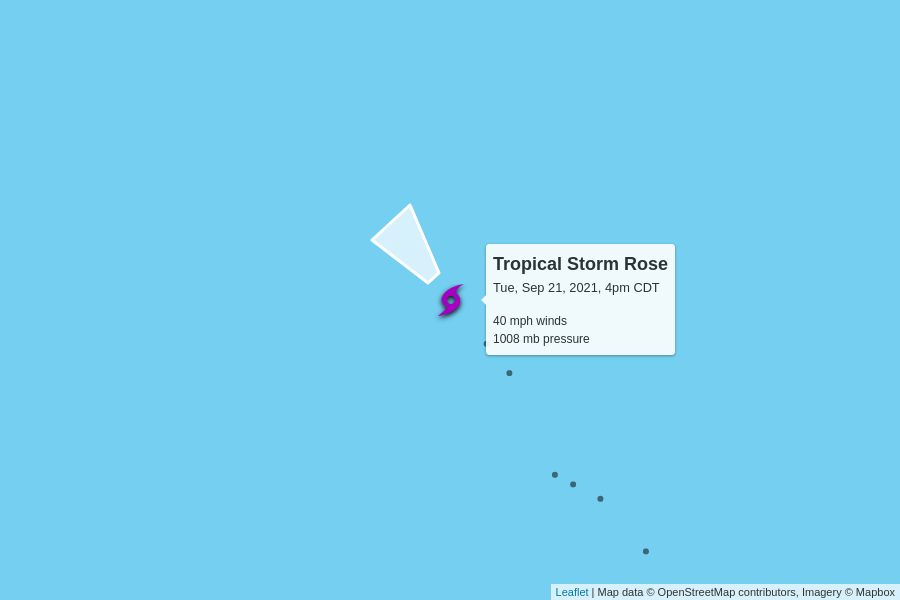
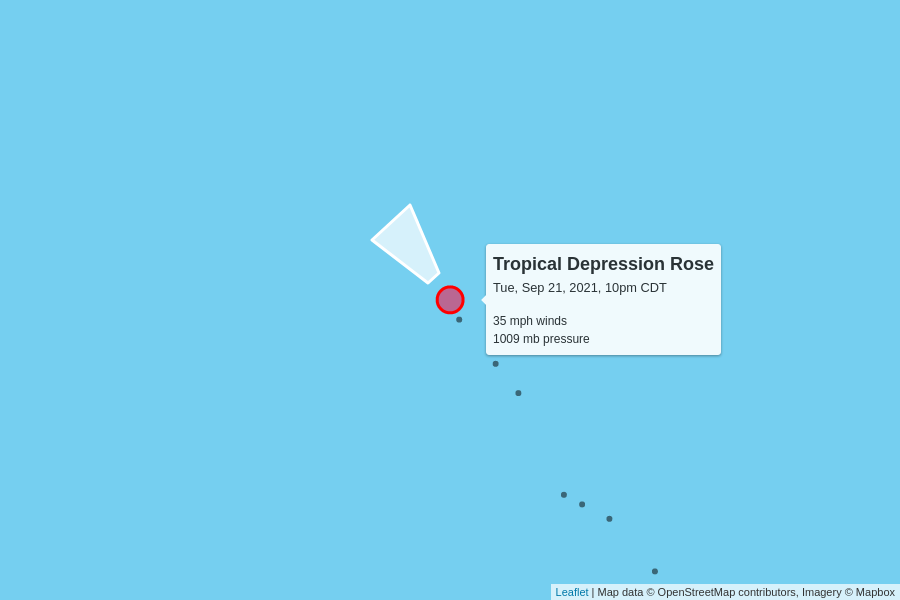
automatic update

Changed region(s): [[0.6222, 0.39, 0.8089, 0.6], [0.4667, 0.48, 0.56, 0.54], [0.6222, 0.81, 0.6533, 0.84]]

diff --git a/docs/index.html b/docs/index.html
@@ -100,7 +100,7 @@
         <td colspan="6" class="storm category-0" >
           <h2>
             Tropical Depression Peter
-            <p class="updated">last updated <span data-time>2021-09-21T21:00:00.000Z</span></p>
+            <p class="updated">last updated <span data-time>2021-09-22T03:00:00.000Z</span></p>
           </h2>
         </td>
       </tr>
@@ -118,9 +118,9 @@
         <td>35 mph</td>
         <td>1009 mb</td>
         <td>
-          8 mph to the west-northwest
+          7 mph to the northwest
           <br/>
-          <span style="display: inline-block; font-size: 1.5em; transform: rotate(300deg);">↑</span>
+          <span style="display: inline-block; font-size: 1.5em; transform: rotate(310deg);">↑</span>
         </td>
         <td><a href="https://raw.githubusercontent.com/mgwalker/atlantic-hurricanes/main/data/csv/AL162021.csv">AL162021.csv</a></td>
         <td><a href="https://www.nhc.noaa.gov/archive/2021/PETER.shtml?">NHC advisories</a></td>
@@ -143,8 +143,8 @@
       <tr>
         <td colspan="6" class="storm category-0" >
           <h2>
-            Tropical Storm Rose
-            <p class="updated">last updated <span data-time>2021-09-21T21:00:00.000Z</span></p>
+            Tropical Depression Rose
+            <p class="updated">last updated <span data-time>2021-09-22T03:00:00.000Z</span></p>
           </h2>
         </td>
       </tr>
@@ -159,8 +159,8 @@
       </tr>
       <tr>
         <td class="spacer"></td>
-        <td>40 mph</td>
-        <td>1008 mb</td>
+        <td>35 mph</td>
+        <td>1009 mb</td>
         <td>
           10 mph to the northwest
           <br/>
